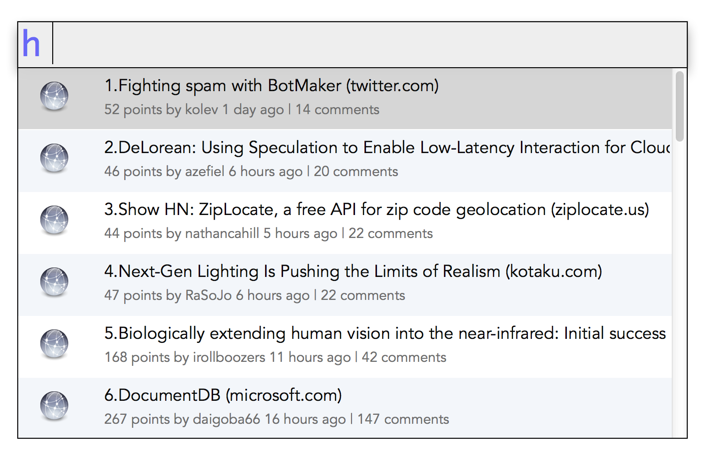
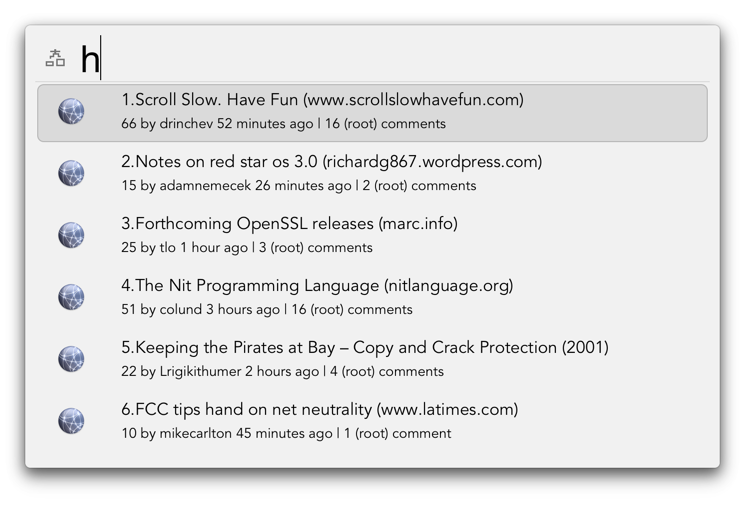
Update: reading-news: screenshots for 1.1.

Changed region(s): [[0.0, 0.0304, 0.9986, 0.9739], [0.1248, 0.4261, 0.9362, 0.5174]]

diff --git a/source/reading-news.md b/source/reading-news.md
@@ -20,8 +20,6 @@ You want to see the discussion on some of the news - just add :d (recipe option 
 You've missed couple of days of news and want to see the latest Show HN submissions...
 No problem! Your query is `h :s`.
 
-![](/reading-news-resources/hn-show.png)
-
 You also can view the jobs with **:j** and the asked questions (Ask HN: and Poll:) with **:ask**.
 
 And remember :d from earlier? You can use it **everywhere applicable** (e.g. `h :s :d` will give you the discussions on the Show HN posts and so on).
